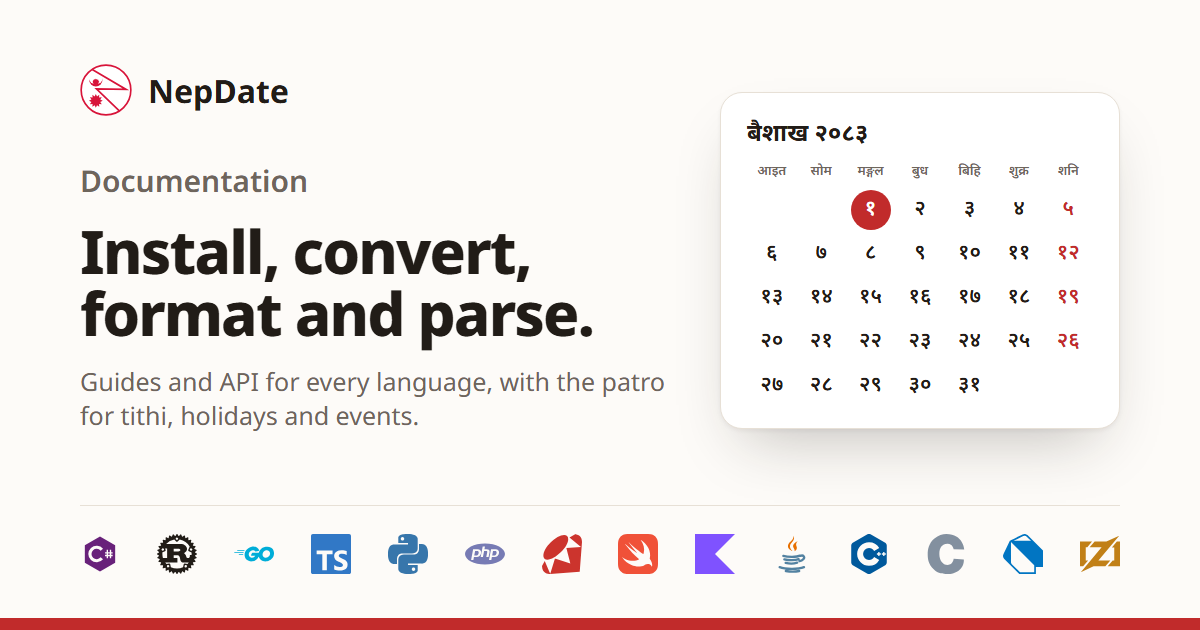
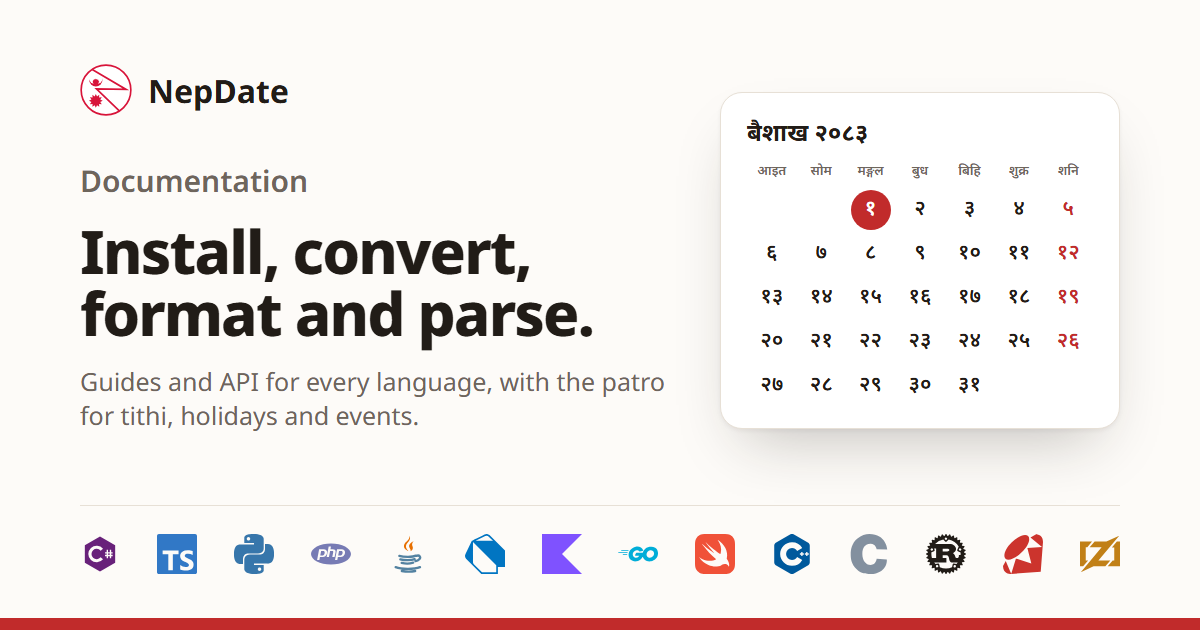
feat(site): order languages by use in Nepal, C# first
Every list followed the order the ports were written in, so Rust came
second and TypeScript, Python and PHP sat in the middle. Readers in
Nepal mostly write web, enterprise and mobile code, so those languages
now lead: C#, TypeScript, Python, PHP, Java, Dart, Kotlin, Go, Swift,
C++, C, Rust, Ruby, Zig.

The order lives once, in ports.ts; the speed rows sort by it, and the
docs sidebar, the introduction's cards and the preview images' mark row
follow it.

diff --git a/site/src/data/ports.ts b/site/src/data/ports.ts
@@ -81,6 +81,8 @@ export interface Port {
 
 const gh = (repo: string) => `https://github.com/sanamhub/${repo}`;
 
+// The order every list on the site and in the docs follows: C# first as the original, then by how
+// widely each language is used in Nepal (web and enterprise, then mobile, then systems).
 export const ports: Port[] = [
   {
     id: "csharp",
@@ -102,46 +104,6 @@ Console.WriteLine(date.EnglishDate.ToString("yyyy-MM-dd"));
 // Shrawan 15, 2081
 Console.WriteLine(date.ToLongDateString());`,
     upstream: { href: "https://github.com/RajuPrasai/NepDate", docs: "https://nepdate.rajuprasai.com.np/" },
-  },
-  {
-    id: "rust",
-    name: "Rust",
-    lang: "rust",
-    repo: "nepdate-rust",
-    core: "nepdate",
-    patro: "nepdate-patro",
-    install: `cargo add nepdate@=${versions.rust}`,
-    patroInstall: `cargo add nepdate-patro@=${versions.rust}`,
-    installLang: "sh",
-    registry: { label: "crates.io", href: "https://crates.io/crates/nepdate" },
-    api: { label: "docs.rs", href: "https://docs.rs/nepdate" },
-    sample: `use nepdate::{Lang, LongDate, NepaliDate};
-
-let date = NepaliDate::new(2081, 4, 15)?;
-let ad = date.to_gregorian(); // 2024-07-30
-// Shrawan 15, 2081
-println!("{}", date.long(LongDate::default(), Lang::En));`,
-  },
-  {
-    id: "go",
-    name: "Go",
-    lang: "go",
-    repo: "nepdate-go",
-    core: "github.com/sanamhub/nepdate-go",
-    patro: "github.com/sanamhub/nepdate-go/patro",
-    install: `go get github.com/sanamhub/nepdate-go@v${versions.go}`,
-    patroInstall: `import "github.com/sanamhub/nepdate-go/patro"`,
-    installLang: "sh",
-    registry: { label: "pkg.go.dev", href: "https://pkg.go.dev/github.com/sanamhub/nepdate-go" },
-    api: { label: "pkg.go.dev", href: "https://pkg.go.dev/github.com/sanamhub/nepdate-go" },
-    sample: `d, err := nepdate.New(2081, nepdate.Shrawan, 15)
-if err != nil {
-	log.Fatal(err)
-}
-y, m, day := d.Gregorian()
-fmt.Println(y, int(m), day) // 2024 7 30
-// Shrawan 15, 2081
-fmt.Println(d.Format("MMMM d, yyyy", nepdate.English))`,
   },
   {
     id: "typescript",
@@ -198,41 +160,40 @@ $date->toLongString();                // 'Shrawan 15, 2081'
 $date->isoformat();                   // '2081-04-15'`,
   },
   {
-    id: "ruby",
-    name: "Ruby",
-    lang: "ruby",
-    repo: "nepdate-ruby",
-    core: "nepdate",
-    patro: "nepdate-patro",
-    install: `gem install nepdate -v ${RUBYGEMS_VERSION}`,
-    patroInstall: `gem install nepdate-patro -v ${RUBYGEMS_VERSION}`,
-    installLang: "sh",
-    registry: { label: "RubyGems", href: "https://rubygems.org/gems/nepdate" },
-    api: { label: "API.md", href: `${gh("nepdate-ruby")}/blob/main/docs/API.md` },
-    sample: `require "nepdate"
+    id: "java",
+    name: "Java",
+    lang: "java",
+    repo: "nepdate-java",
+    core: "io.github.sanamhub:nepdate-java",
+    patro: "io.github.sanamhub:nepdate-java-patro",
+    install: `implementation("io.github.sanamhub:nepdate-java:${JAVA_VERSION}")`,
+    patroInstall: `implementation("io.github.sanamhub:nepdate-java-patro:${JAVA_VERSION}")`,
+    installLang: "kotlin",
+    registry: { label: "Maven Central", href: "https://central.sonatype.com/artifact/io.github.sanamhub/nepdate-java" },
+    api: { label: "API.md", href: `${gh("nepdate-java")}/blob/main/docs/API.md` },
+    sample: `import io.github.sanamhub.nepdate.java.NepaliDate;
 
-date = NepDate::Date.from_bs(2081, 4, 15)
-date.to_date.iso8601;                 # "2024-07-30"
-date.to_long_string(weekday: true);   # "Tuesday, Shrawan 15, 2081"
-date.iso8601;                         # "2081-04-15"`,
+NepaliDate date = NepaliDate.of(2081, 4, 15);
+date.toLocalDate();   // 2024-07-30
+date.toLongString();  // "Shrawan 15, 2081"`,
   },
   {
-    id: "swift",
-    name: "Swift",
-    lang: "swift",
-    repo: "nepdate-swift",
-    core: "NepDate",
-    patro: "NepDatePatro",
-    install: `.package(url: "https://github.com/sanamhub/nepdate-swift", exact: "${versions.swift}")`,
-    patroInstall: `.product(name: "NepDatePatro", package: "nepdate-swift")`,
-    installLang: "swift",
-    registry: { label: "Swift Package Index", href: "https://swiftpackageindex.com/sanamhub/nepdate-swift" },
-    api: { label: "API.md", href: `${gh("nepdate-swift")}/blob/main/docs/API.md` },
-    sample: `import NepDate
+    id: "dart",
+    name: "Dart",
+    lang: "dart",
+    repo: "nepdate-dart",
+    core: "nepdate",
+    patro: "nepdate_patro",
+    install: `dart pub add nepdate:${versions.dart}`,
+    patroInstall: `dart pub add nepdate_patro:${versions.dart}`,
+    installLang: "sh",
+    registry: { label: "pub.dev", href: "https://pub.dev/packages/nepdate" },
+    api: { label: "API.md", href: `${gh("nepdate-dart")}/blob/main/docs/API.md` },
+    sample: `import 'package:nepdate/nepdate.dart';
 
-let date = try NepaliDate(year: 2081, month: 4, day: 15)
-print(date.gregorian) // (year: 2024, month: 7, day: 30)
-print(date.long())    // Shrawan 15, 2081`,
+final date = NepaliDate.fromBs(2081, 4, 15);
+date.toDateTime();          // 2024-07-30 00:00:00.000Z
+date.toLongString();        // "Shrawan 15, 2081"`,
   },
   {
     id: "kotlin",
@@ -253,22 +214,43 @@ val d = date.gregorianDay    // 30
 println(date.toLongString()) // Shrawan 15, 2081`,
   },
   {
-    id: "java",
-    name: "Java",
-    lang: "java",
-    repo: "nepdate-java",
-    core: "io.github.sanamhub:nepdate-java",
-    patro: "io.github.sanamhub:nepdate-java-patro",
-    install: `implementation("io.github.sanamhub:nepdate-java:${JAVA_VERSION}")`,
-    patroInstall: `implementation("io.github.sanamhub:nepdate-java-patro:${JAVA_VERSION}")`,
-    installLang: "kotlin",
-    registry: { label: "Maven Central", href: "https://central.sonatype.com/artifact/io.github.sanamhub/nepdate-java" },
-    api: { label: "API.md", href: `${gh("nepdate-java")}/blob/main/docs/API.md` },
-    sample: `import io.github.sanamhub.nepdate.java.NepaliDate;
+    id: "go",
+    name: "Go",
+    lang: "go",
+    repo: "nepdate-go",
+    core: "github.com/sanamhub/nepdate-go",
+    patro: "github.com/sanamhub/nepdate-go/patro",
+    install: `go get github.com/sanamhub/nepdate-go@v${versions.go}`,
+    patroInstall: `import "github.com/sanamhub/nepdate-go/patro"`,
+    installLang: "sh",
+    registry: { label: "pkg.go.dev", href: "https://pkg.go.dev/github.com/sanamhub/nepdate-go" },
+    api: { label: "pkg.go.dev", href: "https://pkg.go.dev/github.com/sanamhub/nepdate-go" },
+    sample: `d, err := nepdate.New(2081, nepdate.Shrawan, 15)
+if err != nil {
+	log.Fatal(err)
+}
+y, m, day := d.Gregorian()
+fmt.Println(y, int(m), day) // 2024 7 30
+// Shrawan 15, 2081
+fmt.Println(d.Format("MMMM d, yyyy", nepdate.English))`,
+  },
+  {
+    id: "swift",
+    name: "Swift",
+    lang: "swift",
+    repo: "nepdate-swift",
+    core: "NepDate",
+    patro: "NepDatePatro",
+    install: `.package(url: "https://github.com/sanamhub/nepdate-swift", exact: "${versions.swift}")`,
+    patroInstall: `.product(name: "NepDatePatro", package: "nepdate-swift")`,
+    installLang: "swift",
+    registry: { label: "Swift Package Index", href: "https://swiftpackageindex.com/sanamhub/nepdate-swift" },
+    api: { label: "API.md", href: `${gh("nepdate-swift")}/blob/main/docs/API.md` },
+    sample: `import NepDate
 
-NepaliDate date = NepaliDate.of(2081, 4, 15);
-date.toLocalDate();   // 2024-07-30
-date.toLongString();  // "Shrawan 15, 2081"`,
+let date = try NepaliDate(year: 2081, month: 4, day: 15)
+print(date.gregorian) // (year: 2024, month: 7, day: 30)
+print(date.long())    // Shrawan 15, 2081`,
   },
   {
     id: "cpp",
@@ -308,22 +290,42 @@ nepdate_from_bs(2081, 4, 15, &d);
 nepdate_to_ad(d, &ad);                   // 2024-07-30`,
   },
   {
-    id: "dart",
-    name: "Dart",
-    lang: "dart",
-    repo: "nepdate-dart",
+    id: "rust",
+    name: "Rust",
+    lang: "rust",
+    repo: "nepdate-rust",
     core: "nepdate",
-    patro: "nepdate_patro",
-    install: `dart pub add nepdate:${versions.dart}`,
-    patroInstall: `dart pub add nepdate_patro:${versions.dart}`,
+    patro: "nepdate-patro",
+    install: `cargo add nepdate@=${versions.rust}`,
+    patroInstall: `cargo add nepdate-patro@=${versions.rust}`,
     installLang: "sh",
-    registry: { label: "pub.dev", href: "https://pub.dev/packages/nepdate" },
-    api: { label: "API.md", href: `${gh("nepdate-dart")}/blob/main/docs/API.md` },
-    sample: `import 'package:nepdate/nepdate.dart';
+    registry: { label: "crates.io", href: "https://crates.io/crates/nepdate" },
+    api: { label: "docs.rs", href: "https://docs.rs/nepdate" },
+    sample: `use nepdate::{Lang, LongDate, NepaliDate};
 
-final date = NepaliDate.fromBs(2081, 4, 15);
-date.toDateTime();          // 2024-07-30 00:00:00.000Z
-date.toLongString();        // "Shrawan 15, 2081"`,
+let date = NepaliDate::new(2081, 4, 15)?;
+let ad = date.to_gregorian(); // 2024-07-30
+// Shrawan 15, 2081
+println!("{}", date.long(LongDate::default(), Lang::En));`,
+  },
+  {
+    id: "ruby",
+    name: "Ruby",
+    lang: "ruby",
+    repo: "nepdate-ruby",
+    core: "nepdate",
+    patro: "nepdate-patro",
+    install: `gem install nepdate -v ${RUBYGEMS_VERSION}`,
+    patroInstall: `gem install nepdate-patro -v ${RUBYGEMS_VERSION}`,
+    installLang: "sh",
+    registry: { label: "RubyGems", href: "https://rubygems.org/gems/nepdate" },
+    api: { label: "API.md", href: `${gh("nepdate-ruby")}/blob/main/docs/API.md` },
+    sample: `require "nepdate"
+
+date = NepDate::Date.from_bs(2081, 4, 15)
+date.to_date.iso8601;                 # "2024-07-30"
+date.to_long_string(weekday: true);   # "Tuesday, Shrawan 15, 2081"
+date.iso8601;                         # "2081-04-15"`,
   },
   {
     id: "zig",

diff --git a/site/src/data/benchmarks.ts b/site/src/data/benchmarks.ts
@@ -4,6 +4,8 @@
 // Operations B1 to B8 are defined in the hub's spec/BENCHMARK.md. Times are nanoseconds per
 // operation, lower is better.
 
+import { ports } from "./ports";
+
 const blob = (repo: string, path: string) => `https://github.com/sanamhub/${repo}/blob/main/${path}`;
 
 export const BENCHMARK_SPEC = blob("nepdate", "spec/BENCHMARK.md");
@@ -185,7 +187,10 @@ export const csharp: PortBenchmark = {
 };
 
 /** C# NepDate first, then the ports: every language on the site. */
-export const languages: PortBenchmark[] = [csharp, ...benchmarks];
+/** Every port's benchmark, in the site's language order (ports.ts). */
+export const languages: PortBenchmark[] = [csharp, ...benchmarks].sort(
+  (x, y) => ports.findIndex((p) => p.id === x.id) - ports.findIndex((p) => p.id === y.id),
+);
 
 export const competitorCount = languages.reduce((sum, port) => sum + port.competitors.length, 0);
 

diff --git a/site/src/data/lang-icons.ts b/site/src/data/lang-icons.ts
@@ -88,18 +88,18 @@ const java: Mark = {
 /** Language marks, keyed by Port.id. */
 export const langIcons: Record<string, Mark> = {
   csharp,
-  rust: siRust,
-  go: siGo,
   typescript: siTypescript,
   python: siPython,
   php: siPhp,
-  ruby: siRuby,
-  swift: siSwift,
-  kotlin: siKotlin,
   java,
+  dart: siDart,
+  kotlin: siKotlin,
+  go: siGo,
+  swift: siSwift,
   cpp: siCplusplus,
   c: siC,
-  dart: siDart,
+  rust: siRust,
+  ruby: siRuby,
   zig: siZig,
 };
 
